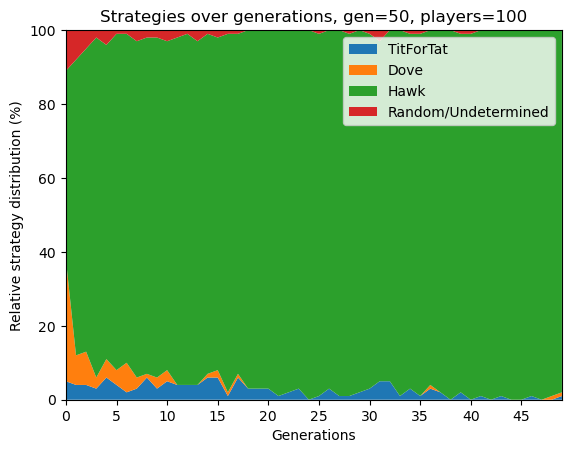
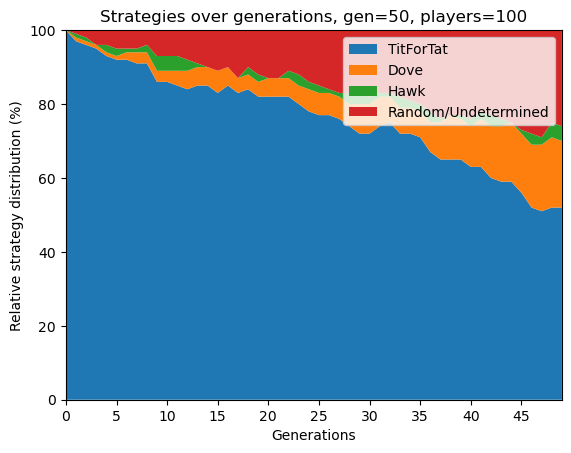
t4t experiment code

diff --git a/src/player.py b/src/player.py
@@ -27,6 +27,24 @@ class Player:
         self.reward = 0
         self.n_matchups_played = 0
         self.initialize_action_history()
+
+    @classmethod
+    def t4tplayer(cls, identifier: int, n_matchups: int, n_games: int, memory_capacity=2, use_cuda=False):
+        """hardcode a t4t player with memory 2. args are the same as __init__()
+
+        Args:
+            identifier: unique identifier for player
+            n_matchups: number of matchups per generation
+            n_games: number of games per matchup
+            memory_capacity: (optional) number of previous actions to consider when making a decision
+        """
+        Player = cls(identifier, n_matchups, n_games, memory_capacity, use_cuda)
+        Player.brain.W1_ = np.array([[-0.03709999634875267, -1.7961602824118976, -1.8527891849240585, -0.36712396749863263], [1.0231250035826696, -1.9575437119800085, 0.19572761446875336, 2.240618403104051], [3.1467075480031617, 2.268071929050388, -2.070629723532281, 1.2688080835096178]])
+        Player.brain.W2_ = np.array([[4.053400565815565], [1.8971396987502256], [-0.7128677902049138], [-0.869760297130533]])
+        Player.brain.Wb1 = np.array([[0.20788300846405733, -1.102598967259388, -0.4842573079389737, 0.9118712326838753]])
+        Player.brain.Wb2 = np.array([[-3.9004539936852285]])
+        return Player
+
     
     def initialize_action_history(self)->None:
         """Initializes first max_memory_capacity actions for all matchups with zeros."""
@@ -69,11 +87,26 @@ class Player:
         """
         crossover_p = 0.1
         # switch weight vectors randomly between 2 players
-        for i, row in enumerate(self.brain.W1_):
+        for i, col in enumerate(self.brain.W1_[0]):
             if random.random() < crossover_p:
-                temp = row
-                row = other.brain.W1_[i]
-                other.brain.W1_[i] = temp
+                temp = self.brain.W1_[:,i]
+                self.brain.W1_[:,i] = other.brain.W1_[:,i]
+                other.brain.W1_[:,i] = temp
+        for i, col in enumerate(self.brain.W2_[0]):
+            if random.random() < crossover_p:
+                temp = self.brain.W2_[:,i]
+                self.brain.W2_[:,i] = other.brain.W2_[:,i]
+                other.brain.W2_[:,i] = temp
+        for i, col in enumerate(self.brain.Wb1[0]):
+            if random.random() < crossover_p:
+                temp = self.brain.Wb1[:,i]
+                self.brain.Wb1_[:,i] = other.brain.W1_[:,i]
+                other.brain.Wb1_[:,i] = temp
+        for i, col in enumerate(self.brain.Wb2[0]):
+            if random.random() < crossover_p:
+                temp = self.brain.Wb2[:,i]
+                self.brain.Wb2[:,i] = other.brain.Wb2[:,i]
+                other.brain.Wb2[:,i] = temp
                 
         # for i, row in enumerate(self.brain.W2_)
         # ...

diff --git a/src/environment.py b/src/environment.py
@@ -27,7 +27,9 @@ class Environment:
         self.n_matchups = n_matchups
         self.n_games = n_games
         self.n_generations = n_generations
-        self.players = [Player(identifier=i, n_matchups=n_matchups, n_games=n_games, memory_capacity=memory_capacity,
+        # self.players = [Player(identifier=i, n_matchups=n_matchups, n_games=n_games, memory_capacity=memory_capacity,
+        #                        use_cuda=use_cuda) for i in range(n_players)]
+        self.players = [Player.t4tplayer(identifier=i, n_matchups=n_matchups, n_games=n_games, memory_capacity=memory_capacity,
                                use_cuda=use_cuda) for i in range(n_players)]
         self.strat_detector = strat_detector
         self.fitness = fitness 
@@ -65,7 +67,7 @@ class Environment:
         generating their mutated offspring.
         """
         # Percentage of players that are kept for next generation: Elite
-        elite = 0.5
+        elite = 0.95
         index = int(elite * len(self.players))
         # Sort players in descending order. Elite is until index
         # Is it possible to integrate the player.reset() call in here?
@@ -93,11 +95,11 @@ class Environment:
         # Reset player information and ids. Ids HAVE to be sorted ascending in new list
 
         # crossover tryout code
-        combis = []
-        for _ in range(len(self.players)):
-            combis.append(random.sample(range(len(self.players)), 2))
-        for combo in combis:
-            self.players[combo[0]].crossover(self.players[combo[1]])
+        # combis = []
+        # for _ in range(len(self.players)):
+        #     combis.append(random.sample(range(len(self.players)), 2))
+        # for combo in combis:
+        #     self.players[combo[0]].crossover(self.players[combo[1]])
             
 
         for i, p in enumerate(self.players):

diff --git a/src/strategy_detector.py b/src/strategy_detector.py
@@ -120,6 +120,16 @@ def detect_strategy(player, games=20, verbose=False):
 	detector = StrategyDetector(games=games)
 
 	verdict = detector.detect(player=player)
+
+	# grabbing a t4t player code ---
+	# if verdict == 0:
+	# 	print(player.brain.W1_.tolist())
+	# 	print(player.brain.W2_.tolist())
+	# 	print(player.brain.Wb1.tolist())
+	# 	print(player.brain.Wb2.tolist())
+	# 	print("---")
+	# --- end of t4t code
+
 	if verbose:
 		print(f"Player {player.identifier} is seen as: {STRATS[verdict]}")
 	return verdict

diff --git a/main.py b/main.py
@@ -19,7 +19,8 @@ if __name__ == '__main__':
     n_matchups = 50
     n_generations = 50
     n_players = 100  # at least 2
-    memory_capacity = 1  # at least 1
+    assert n_players > n_matchups
+    memory_capacity = 3  # at least 1
     verbose = False
     strat_detector = True
     use_cuda = False
